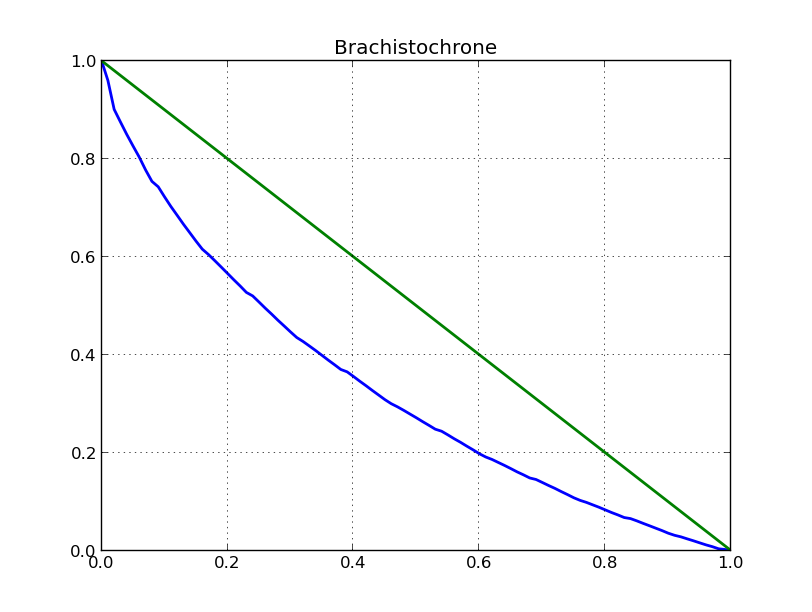
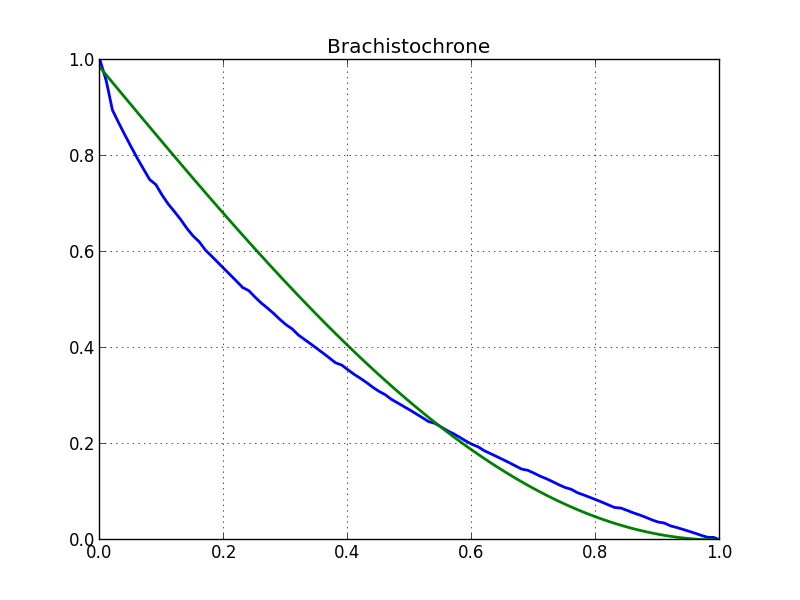
finished brach

diff --git a/brachistochrone/brachistochrone.py b/brachistochrone/brachistochrone.py
@@ -1,9 +1,12 @@
 #!/usr/bin/env python
 
+from __future__ import division
 from random import Random
 from time import time
-from math import sin
+from math import cos
 from math import sqrt
+from math import sin
+from math import radians
 import matplotlib.pyplot as plt
 
 num_intervals = 100
@@ -73,7 +76,25 @@ def duration(candidate):
 
     return t_total
 
-def brachistone():
+
+def frange(x, y, step):
+    while x + 0.000000005 < y:
+        yield x
+        x += step
+
+def actual(a):
+    x = []
+    y = []
+
+    for theta in frange(0.0, 90.0, 90.0/101):
+        theta = radians(theta)
+        x.append(a/2.0 * (theta - sin(theta)))
+        y.append(a/2.0 * (1.0 - cos(theta)))
+    
+    return x, y
+    
+
+def brachistochrone():
     initial = [(float(i) / num_intervals) for i in range(num_intervals)]
     initial.append(1.0)
     initial.reverse()
@@ -81,18 +102,30 @@ def brachistone():
     rand.seed(int(time()))
     real = initial[:]
     
-    opt = find_optimal(initial[:], 10000, rand)
+    k = find_optimal(initial[:], 1000, rand)
+    print duration(k)
+    tenk = find_optimal(k[:], 10000, rand)
+    print duration(tenk)
+    #hundk = find_optimal(tenk[:], 100000, rand)
+    #print duration(hundk)
 
-    print(opt)
-    print duration(opt)
     initial.reverse()
-    plt.plot(initial, opt, '-', lw=2)
+    plt.plot(initial, k, '-', lw=2)
+    plt.plot(initial, tenk, '-', lw=2)
+    #plt.plot(initial, hundk, '-', lw=2)
 
-    plt.plot(initial, real, '-', lw=2)
+
+    plt.plot(initial, initial, '-', lw=2)
+    real = actual(2.0)
+    initial.reverse()
+
+    plt.plot(initial, real[1], '-', lw=2)
+    print duration(real[1])
+    print duration(initial)
 
     plt.title('Brachistochrone')
     plt.grid(True)
-    plt.show
+    plt.show()
 
 if __name__ == '__main__':
     brachistone()
